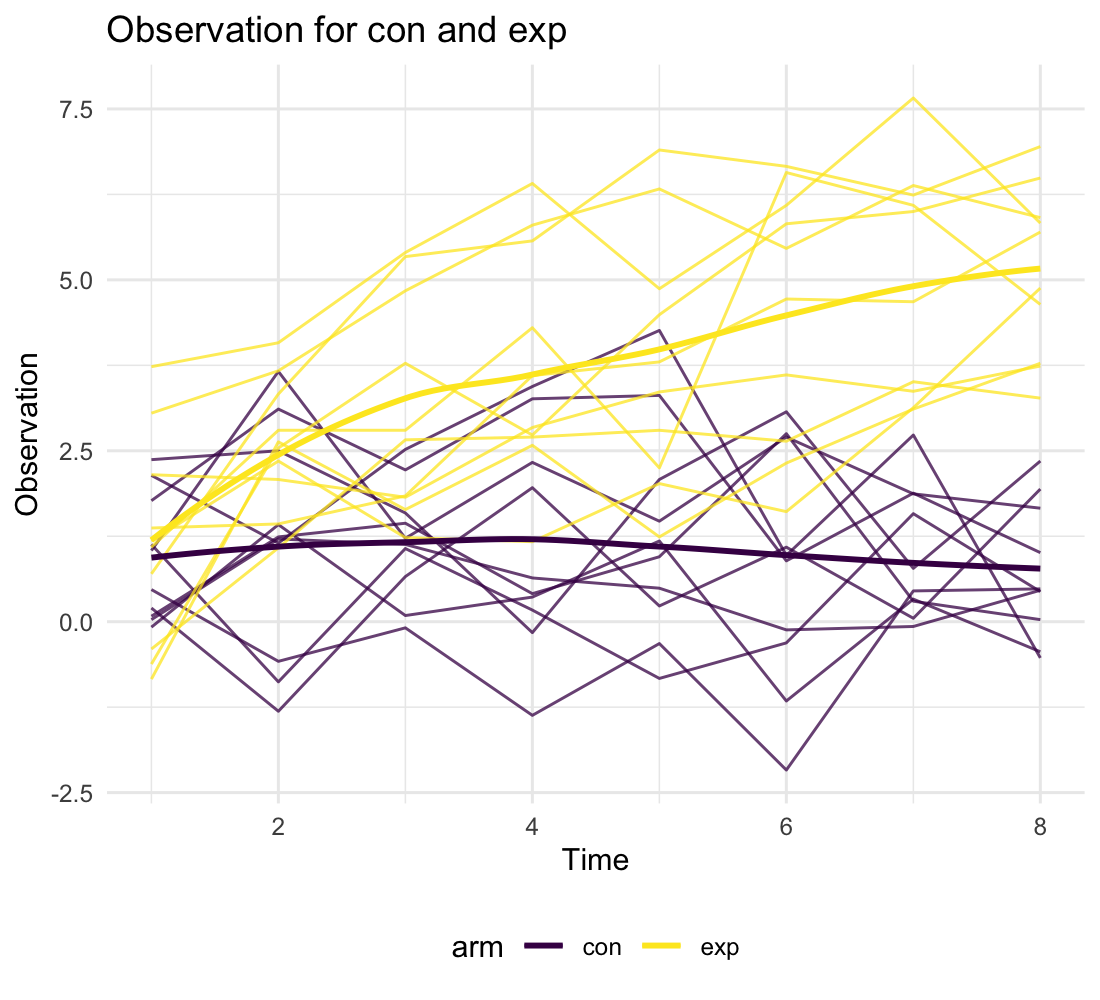
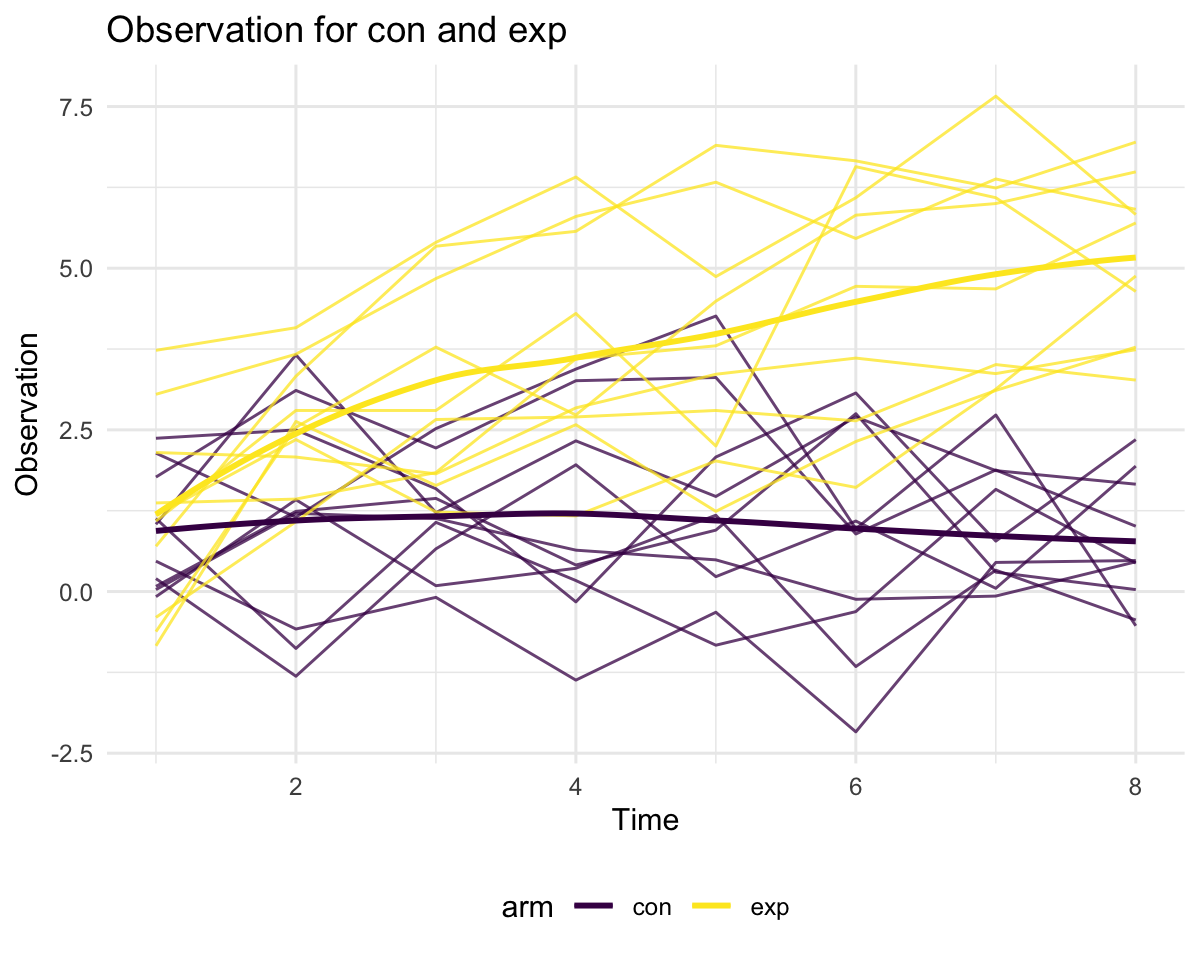
change sizes of pictures

diff --git a/p8105_hw5_yl4925.md b/p8105_hw5_yl4925.md
@@ -112,7 +112,7 @@ proportion_table %>%
   labs(title = "City Unsolved Proportion", x = "City,State", y = "Unsolved Proportion")
 ```
 
-![](p8105_hw5_yl4925_files/figure-gfm/unnamed-chunk-6-1.png)<!-- -->
+<img src="p8105_hw5_yl4925_files/figure-gfm/unnamed-chunk-6-1.png" width="90%" />
 
 # Problem 2
 
@@ -177,7 +177,7 @@ tidy_longitudinal_df %>%
 
     ## `geom_smooth()` using method = 'loess' and formula 'y ~ x'
 
-![](p8105_hw5_yl4925_files/figure-gfm/unnamed-chunk-10-1.png)<!-- -->
+<img src="p8105_hw5_yl4925_files/figure-gfm/unnamed-chunk-10-1.png" width="90%" />
 
 According to smooth line, the observations for con group almost keep the
 same from week 1 to week 8. But the observations for exp group have the
